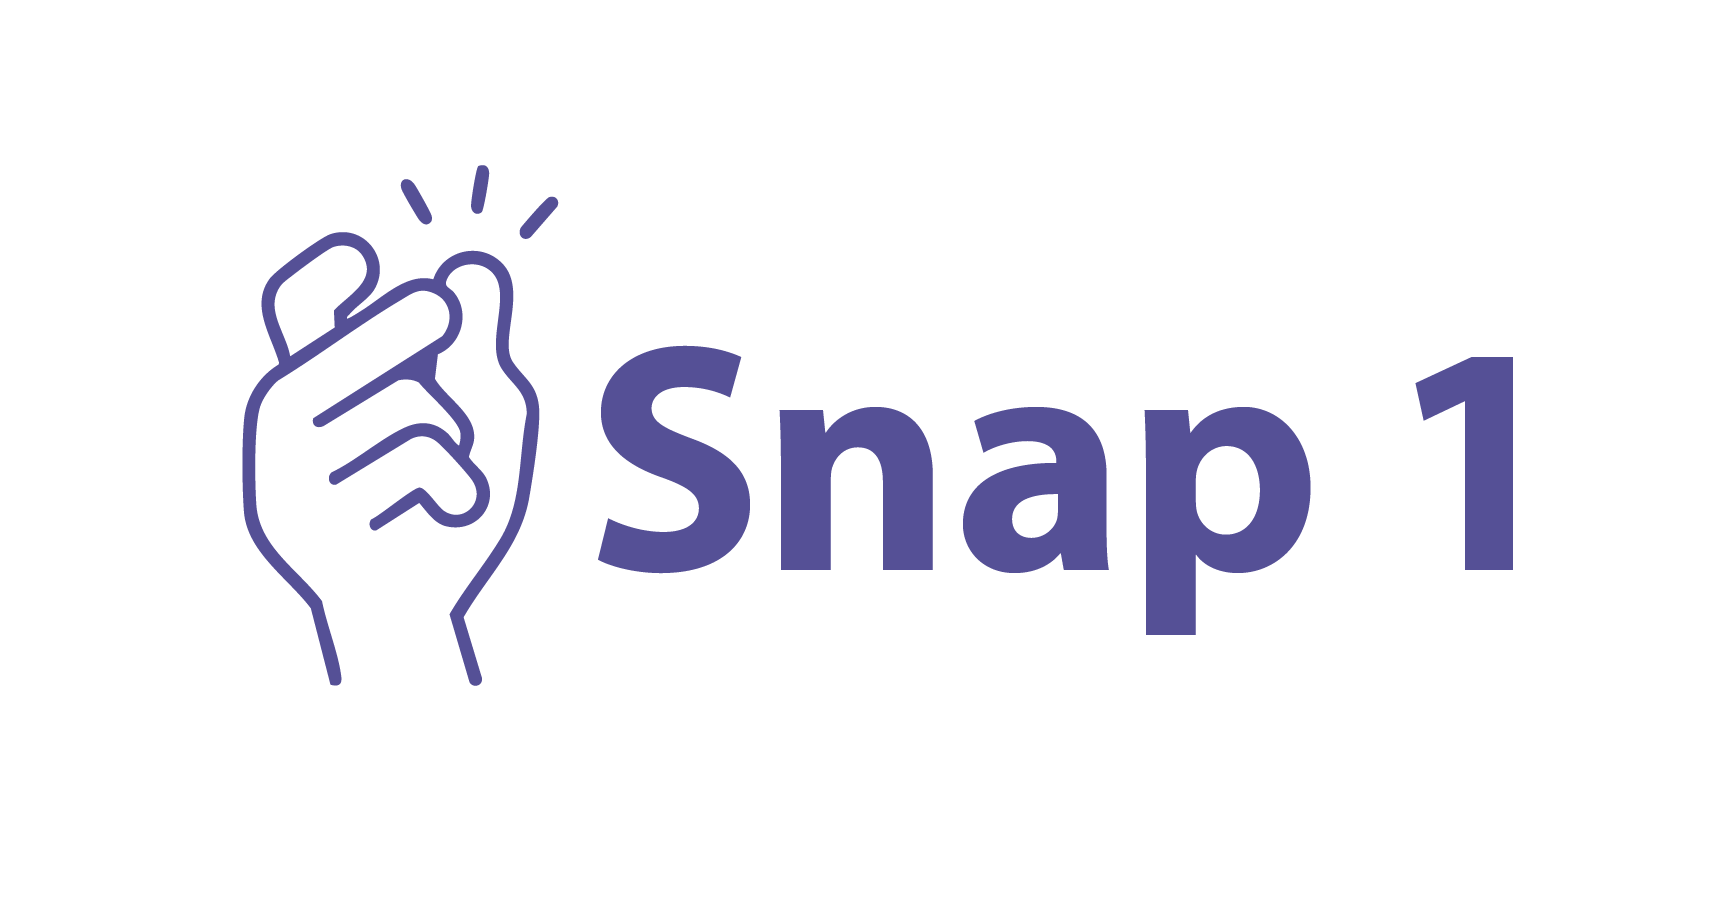
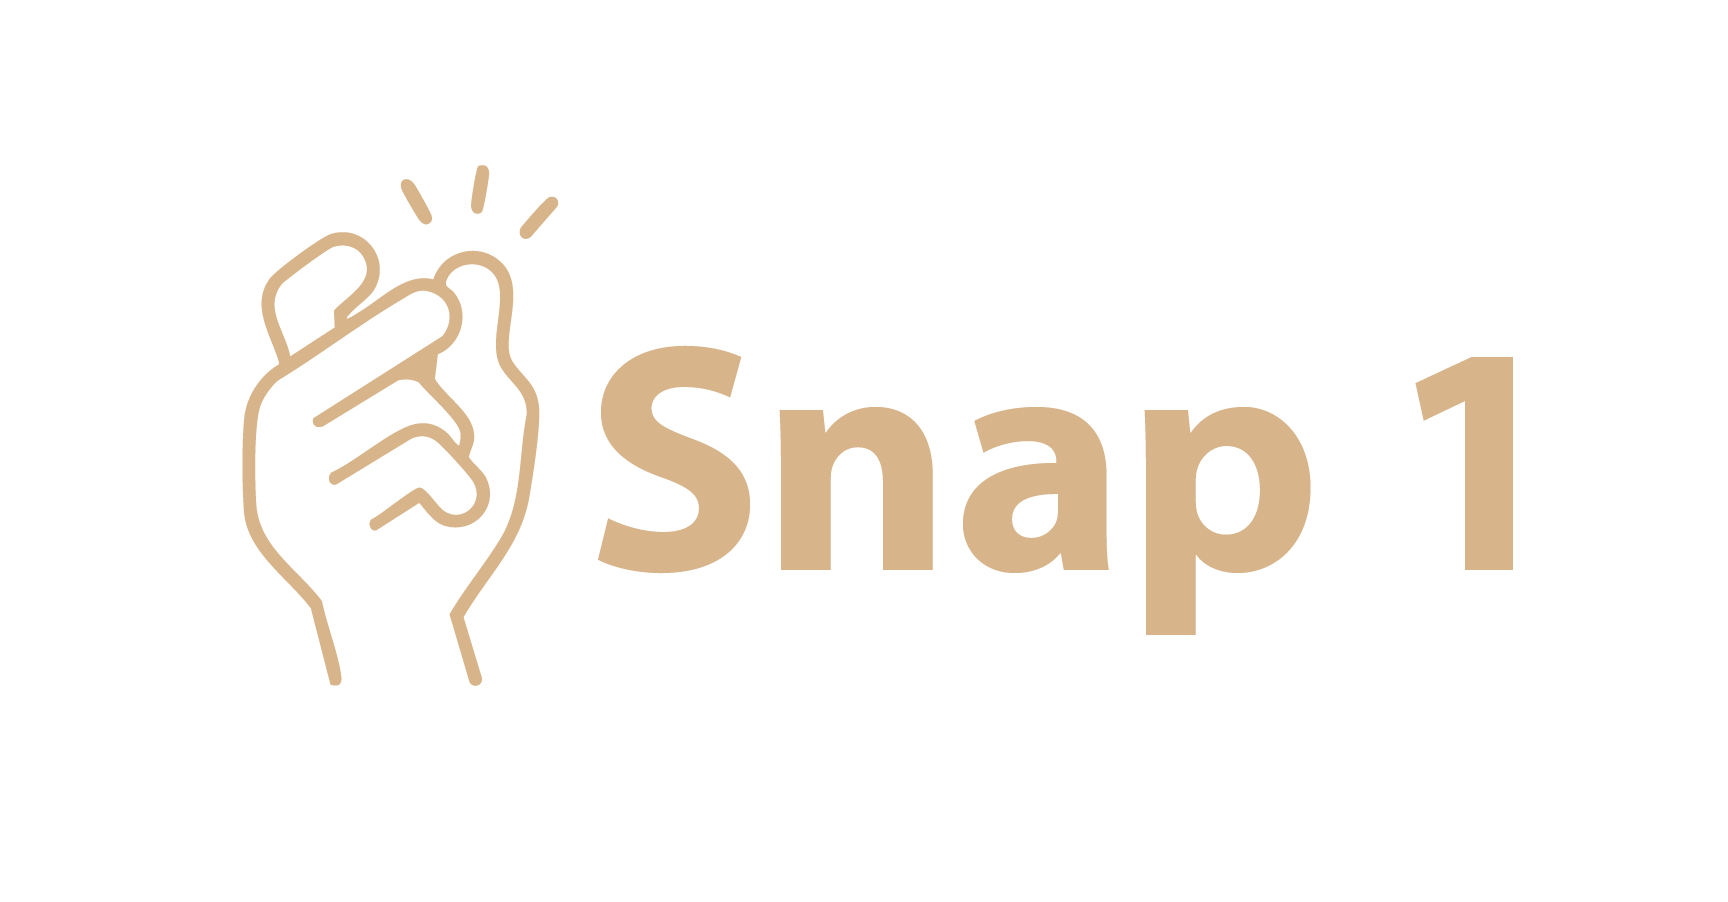
Add files via upload

diff --git a/index.html b/index.html
@@ -86,24 +86,13 @@
 
     <!-- Carrusel de banners (5 banners) -->
     <div class="container" id="subintro">
-        <div class="wave-top">
-        <svg data-name="Layer 1" xmlns="http://www.w3.org/2000/svg" viewBox="0 0 1200 120" preserveAspectRatio="none">
-        <!-- Path modificado para ondulaciones más pronunciadas -->
-        <path d="M0,0V46.29c47.79,22.2,103.59,32.17,158,28,70.36-5.37,136.33-33.31,206.8-37.5C438.64,32.43,512.34,53.67,583,72.05c69.27,18,138.3,24.88,209.4,13.08,36.15-6,69.85-17.84,104.45-29.34C989.49,25,1113-14.29,1200,52.47V0Z" 
-                opacity=".25" class="shape-fill"></path>
-        <path d="M0,0V15.81C13,36.92,27.64,56.86,47.69,72.05,99.41,111.27,165,111,224.58,91.58c31.15-10.15,60.09-26.07,89.67-39.8,40.92-19,84.73-46,130.83-49.67,36.26-2.85,70.9,9.42,98.6,31.56,31.77,25.39,62.32,62,103.63,73,40.44,10.79,81.35-6.69,119.13-24.28s75.16-39,116.92-43.05c59.73-5.85,113.28,22.88,168.9,38.84,30.2,8.66,59,6.17,87.09-7.5,22.43-10.89,48-26.93,60.65-49.24V0Z" 
-                opacity=".5" class="shape-fill"></path>
-        <path d="M0,0V5.63C149.93,59,314.09,71.32,475.83,42.57c43-7.64,84.23-20.12,127.61-26.46,59-8.63,112.48,12.24,165.56,35.4C827.93,77.22,886,95.24,951.2,90c86.53-7,172.46-45.71,248.8-84.81V0Z" 
-                class="shape-fill"></path>
-        </svg>
-        </div> 
     <div id="Mainintro" class="row g-12">
 
             <div id="Mainintro-s1" class="col-md-7">
                 <h2>En Integra Clinic te ofrecemos servicios odontológicos integrales, tecnología moderna y atención humana para que sonrías 
                   con confianza desde el primer día.</h2>
                 <br>
-                <h3 style="color: rgb(86,71,151);">En Integra Clinic, impulsamos tu bienestar con servicios odontológicos integrales.</h3>
+                <h3 style="color: #D7B48A;">En Integra Clinic, impulsamos tu bienestar con servicios odontológicos integrales.</h3>
                 <br>
                 <h4>
                     En Integra Clinic elevamos tu experiencia con servicios odontológicos de alto nivel, 
@@ -126,7 +115,7 @@
     <div class="image-section">
       <div class="image-wrapper">
         <img class="background" src="IMG/back_pareja_1.png" alt="Background" />
-        <img class="foreground" src="IMG/int_2.png" alt="Snap VAs Team" />
+        <img class="foreground" src="IMG/int_6.jpeg" alt="Snap VAs Team" />
       </div>
     </div>
     <div class="text-section">
@@ -563,17 +552,7 @@
 </div>
 
 
-    </div>
         </div>
-        <div class="wave-bottom">
-            <svg data-name="Layer 1" xmlns="http://www.w3.org/2000/svg" viewBox="0 0 1200 120" preserveAspectRatio="none">
-                <path d="M0,0V46.29c47.79,22.2,103.59,32.17,158,28,70.36-5.37,136.33-33.31,206.8-37.5C438.64,32.43,512.34,53.67,583,72.05c69.27,18,138.3,24.88,209.4,13.08,36.15-6,69.85-17.84,104.45-29.34C989.49,25,1113-14.29,1200,52.47V0Z" 
-                    opacity=".25" class="shape-fill"></path>
-                <path d="M0,0V15.81C13,36.92,27.64,56.86,47.69,72.05,99.41,111.27,165,111,224.58,91.58c31.15-10.15,60.09-26.07,89.67-39.8,40.92-19,84.73-46,130.83-49.67,36.26-2.85,70.9,9.42,98.6,31.56,31.77,25.39,62.32,62,103.63,73,40.44,10.79,81.35-6.69,119.13-24.28s75.16-39,116.92-43.05c59.73-5.85,113.28,22.88,168.9,38.84,30.2,8.66,59,6.17,87.09-7.5,22.43-10.89,48-26.93,60.65-49.24V0Z" 
-                    opacity=".5" class="shape-fill"></path>
-                <path d="M0,0V5.63C149.93,59,314.09,71.32,475.83,42.57c43-7.64,84.23-20.12,127.61-26.46,59-8.63,112.48,12.24,165.56,35.4C827.93,77.22,886,95.24,951.2,90c86.53-7,172.46-45.71,248.8-84.81V0Z" 
-                    class="shape-fill"></path>
-            </svg>
         </div>
     </div>
 </section>

diff --git a/CSS/SVEstilos.css b/CSS/SVEstilos.css
@@ -314,7 +314,7 @@
     }
 
     .text-section h3 {
-      color: #7c38ff;
+      color: #D7B48A;
       font-size: 20px;
       margin-bottom: 30px;
     }
@@ -337,8 +337,14 @@
 
     .cta-button {
       display: inline-block;
-      background-color: #7c38ff;
-      color: white;
+      background: linear-gradient(
+        to right,
+        #D7B48A 0%,      /* Oro puro a la izquierda */
+        #D7B48A 45%,     /* Gradiente comienza en 45% */
+        white 55%,     /* Transición a dorado oscuro en 55% */
+        #D7B48A 100%     /* Dorado oscuro a la derecha */
+    );
+      color: #9A9A9A;
       padding: 14px 30px;
       font-size: 18px;
       font-weight: bold;
@@ -350,7 +356,7 @@
     }
 
     .cta-button:hover {
-      background-color: #5e2ac7;
+      background-color: black;
     }
 
     @media screen and (max-width: 768px) {
@@ -368,26 +374,27 @@
 .snaps-section {
   text-align: center;
   padding: 40px 20px;
-  background-color: #fff;
+  background-color: black;
 }
 
 .snaps-section h2 {
   font-size: 1.8rem;
   font-weight: 700;
   margin-bottom: 40px;
+  color: white;
 }
 
 .highlight {
-  color: #333;
+  color: white;
 }
 
 .highlight-black {
-  color: #000;
+  color: white;
   font-weight: 700;
 }
 
 .bold-purple {
-  color: #5b57a4;
+  color: white;
   font-weight: 700;
 }
 
@@ -411,6 +418,7 @@
 .snap-card p {
   font-size: 0.95rem;
   margin-bottom: 16px;
+  color: white;
 }
 
 .snap-card img {
@@ -420,7 +428,7 @@
 
 .snap-card h3 {
   font-size: 1.2rem;
-  color: #5b57a4;
+  color: white;
   font-weight: 700;
 }
 
@@ -452,8 +460,14 @@
 
 .cta-button {
   display: inline-block;
-  background-color: #5b57a4;
-  color: #fff;
+  background-color: linear-gradient(
+        to right,
+        #D7B48A 0%,      /* Oro puro a la izquierda */
+        #D7B48A 45%,     /* Gradiente comienza en 45% */
+        white 55%,     /* Transición a dorado oscuro en 55% */
+        #D7B48A 100%     /* Dorado oscuro a la derecha */
+    );
+  color: #9A9A9A;
   text-decoration: none;
   padding: 10px 24px;
   border-radius: 20px;
@@ -463,7 +477,7 @@
 }
 
 .cta-button:hover {
-  background-color: #49449a;
+  background-color: black;
 }
 
 
